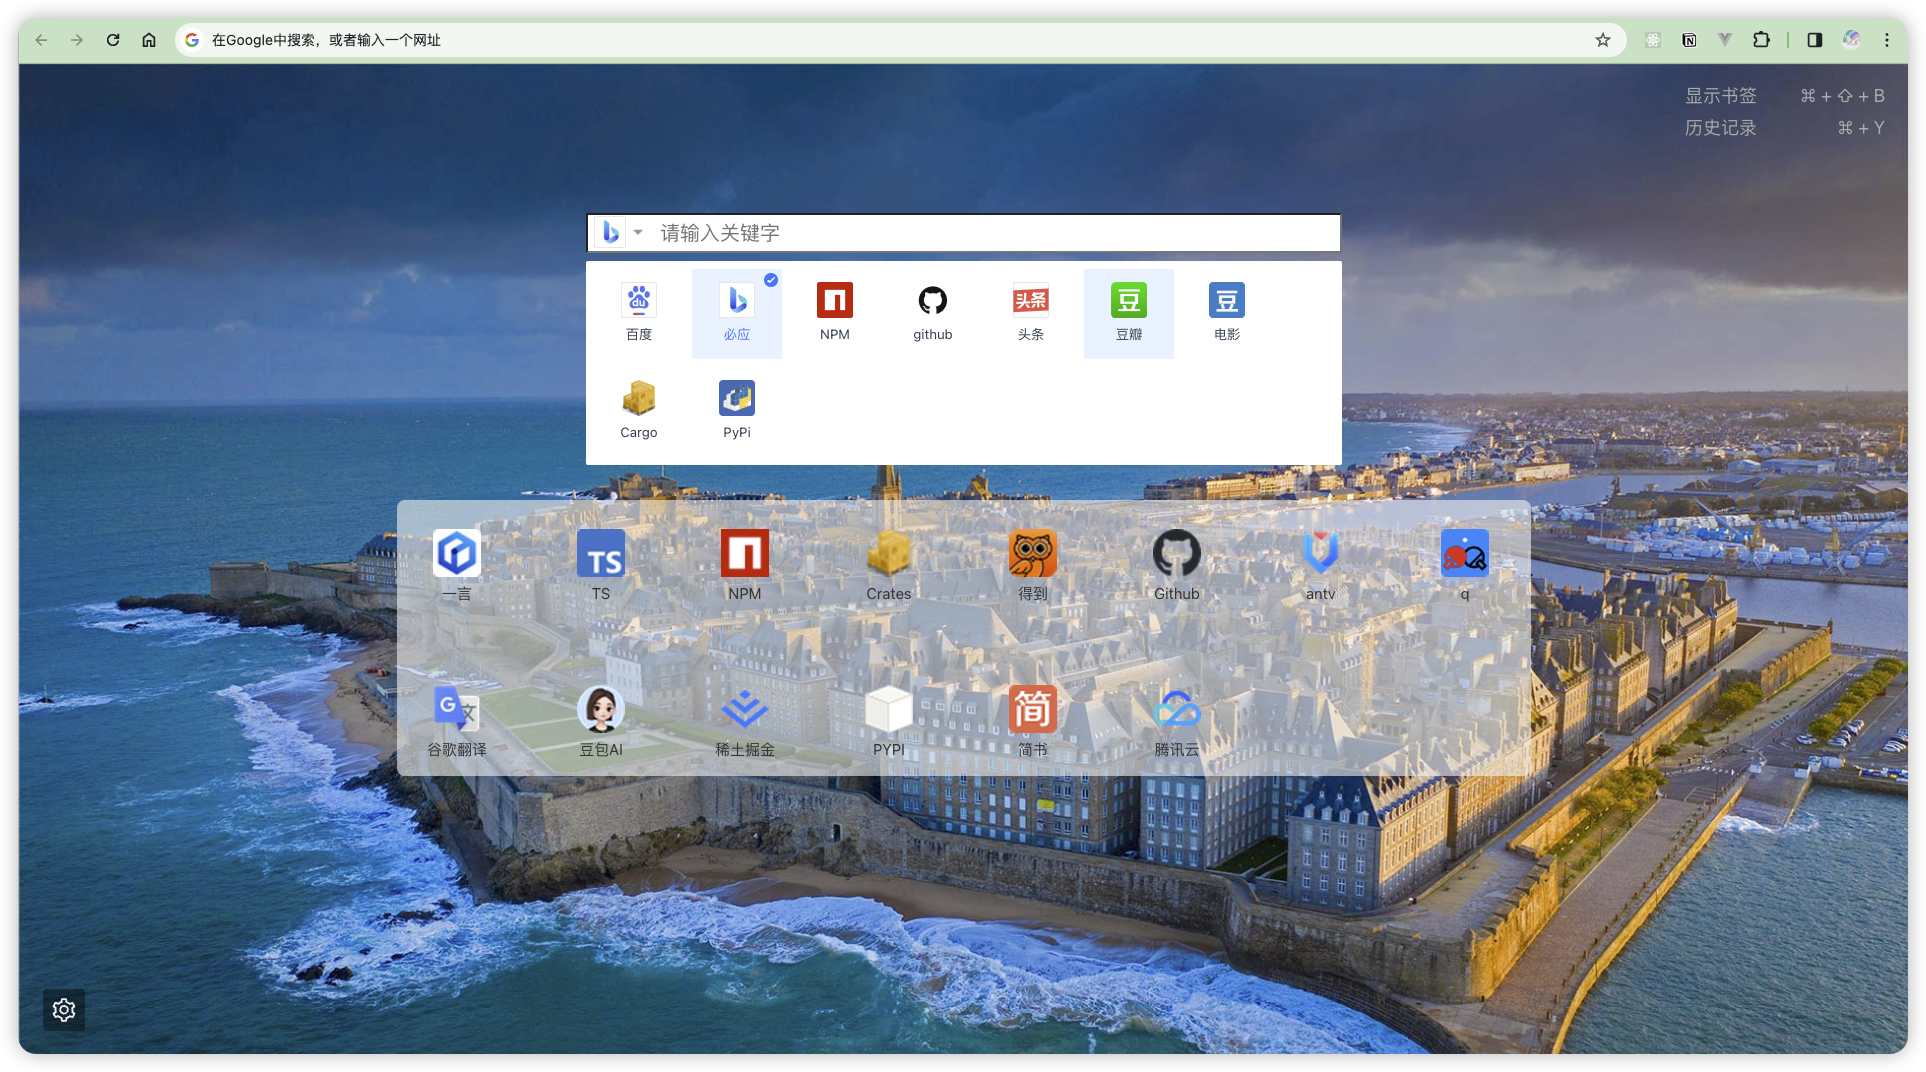
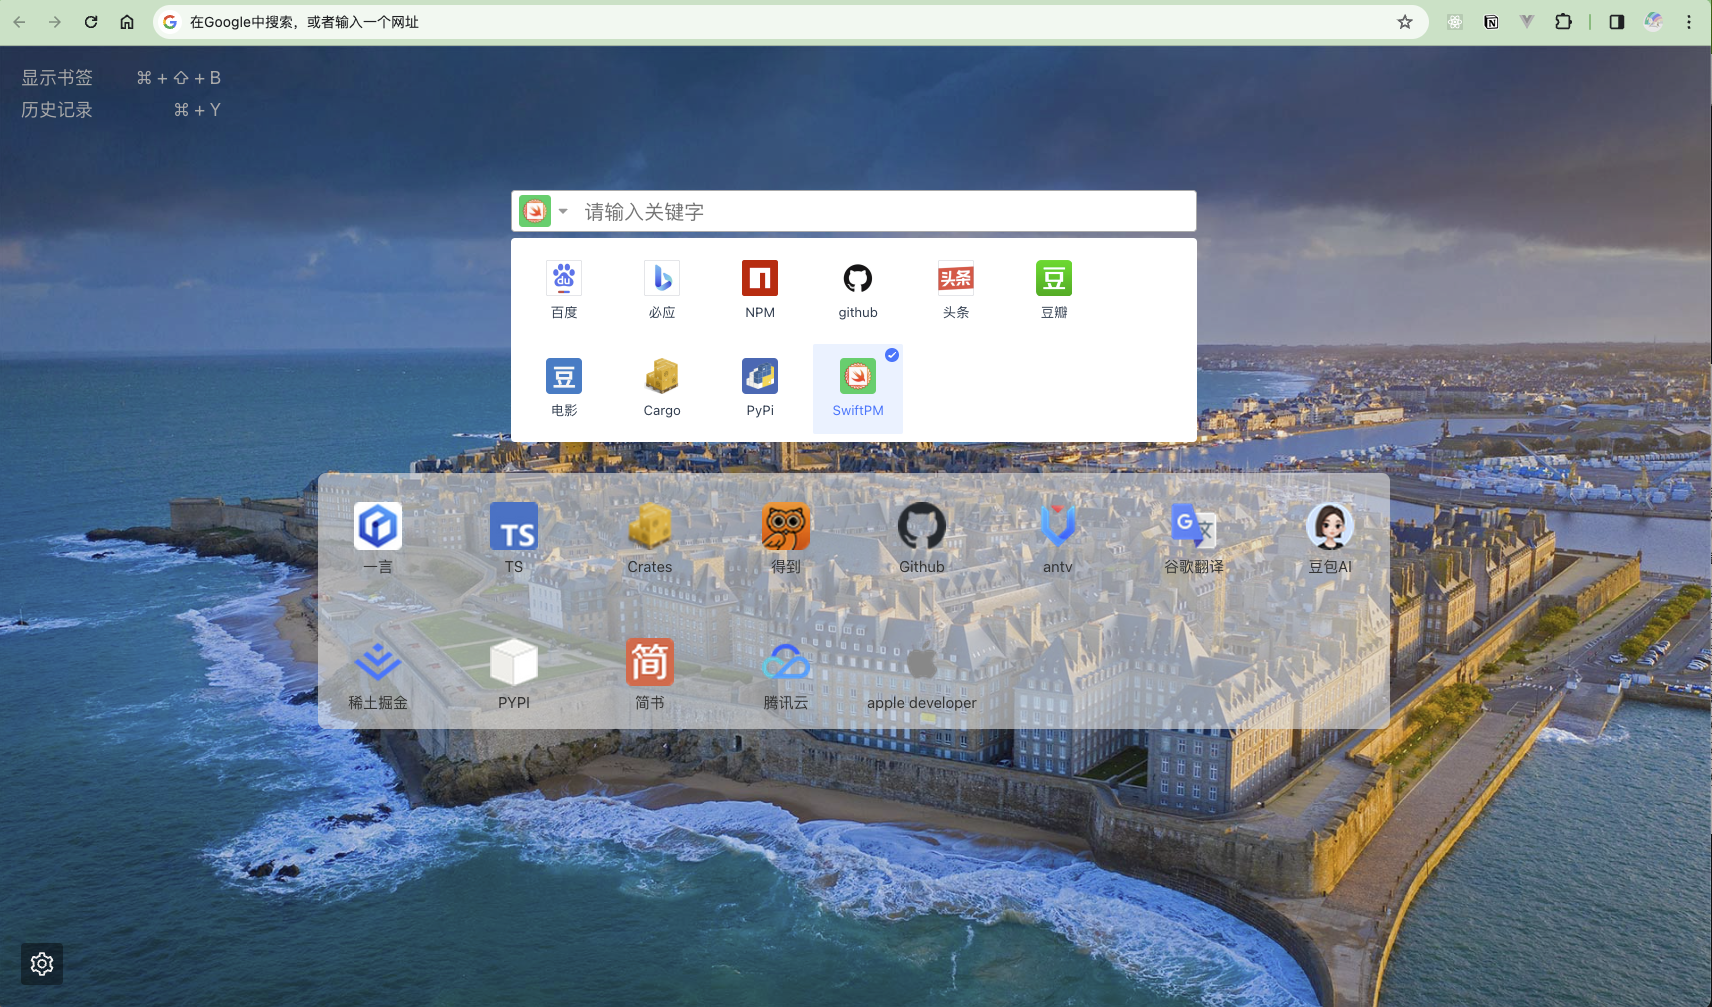
[feat] add swift package index

diff --git a/src/shared/index.ts b/src/shared/index.ts
@@ -10,6 +10,7 @@ import douban from "./../assets/search/logo-douban.png";
 import movie from "./../assets/search/logo-douban-movie.png";
 import cargo from "./../assets/search/logo-cargo.png";
 import pypi from "./../assets/search/logo-pypi.png";
+import swift from "./../assets/search/logo-swift.png";
 
 const faviconURL = (u: string, size = "48"): string => {
   if (!chrome?.runtime?.getURL) {
@@ -76,6 +77,12 @@ const SEARCH_ENGINE_LIST: Engine[] = [
     img: pypi,
     target: `https://pypi.org/search/?q=`,
     id: "pypi",
+  },
+  {
+    name: "SwiftPM",
+    img: swift,
+    target: `https://swiftpackageindex.com/search?query=`,
+    id: "swift",
   },
 ]
 

diff --git a/src/views/settings/ConfigBackground.vue b/src/views/settings/ConfigBackground.vue
@@ -6,7 +6,7 @@
                 <div class="selection" @click="selectBg(item)">
                     <CheckCircleOutlined :style="{
                         'fontSize': '28px',
-                        'color': curBg === item ? '#6081FC' : '#ddd'
+                        'color': curBg === item ? '#CB591A' : '#ddd'
                     }" />
                 </div>
             </div>

diff --git a/README.md b/README.md
@@ -2,7 +2,10 @@
 
 自定义tab 导航页，自定义搜索，效果如下
 
-![步骤-1](./public/imgs/preview.png)
+![总览](./public/imgs/preview.png)
+
+
+![背景设置](./public/imgs/background-select.png)
 
 # 使用方法
 
